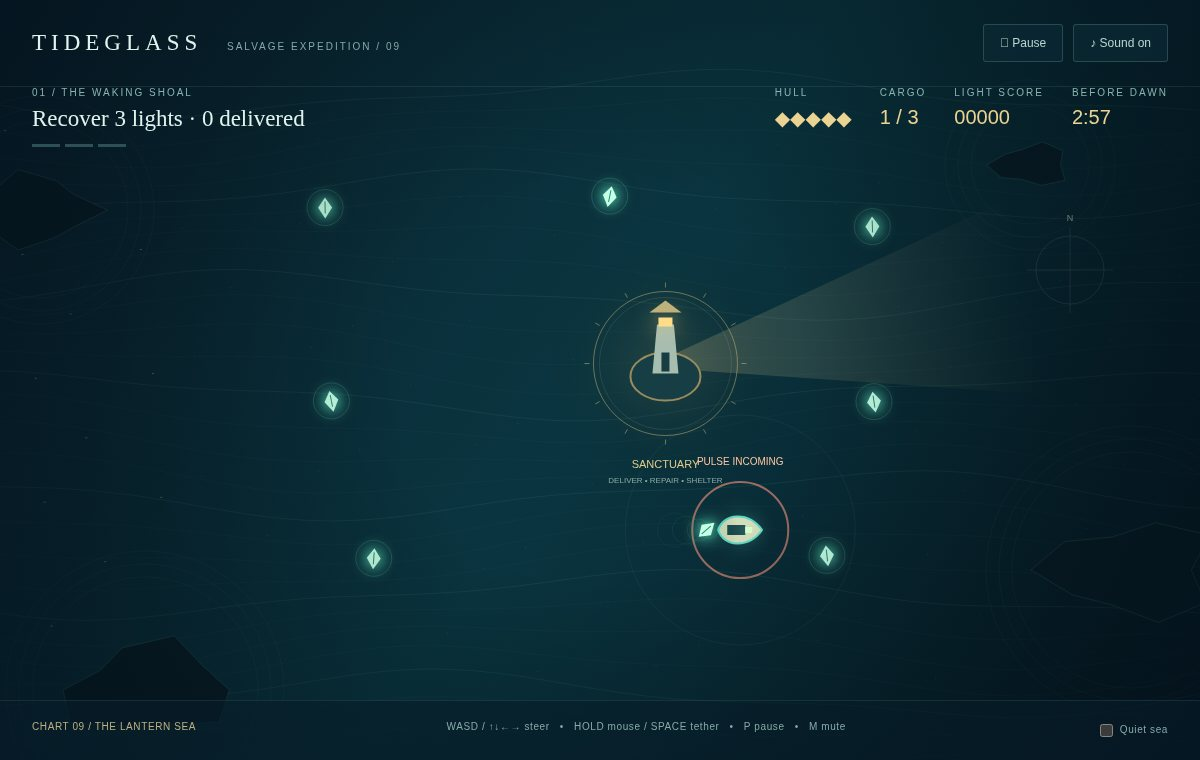
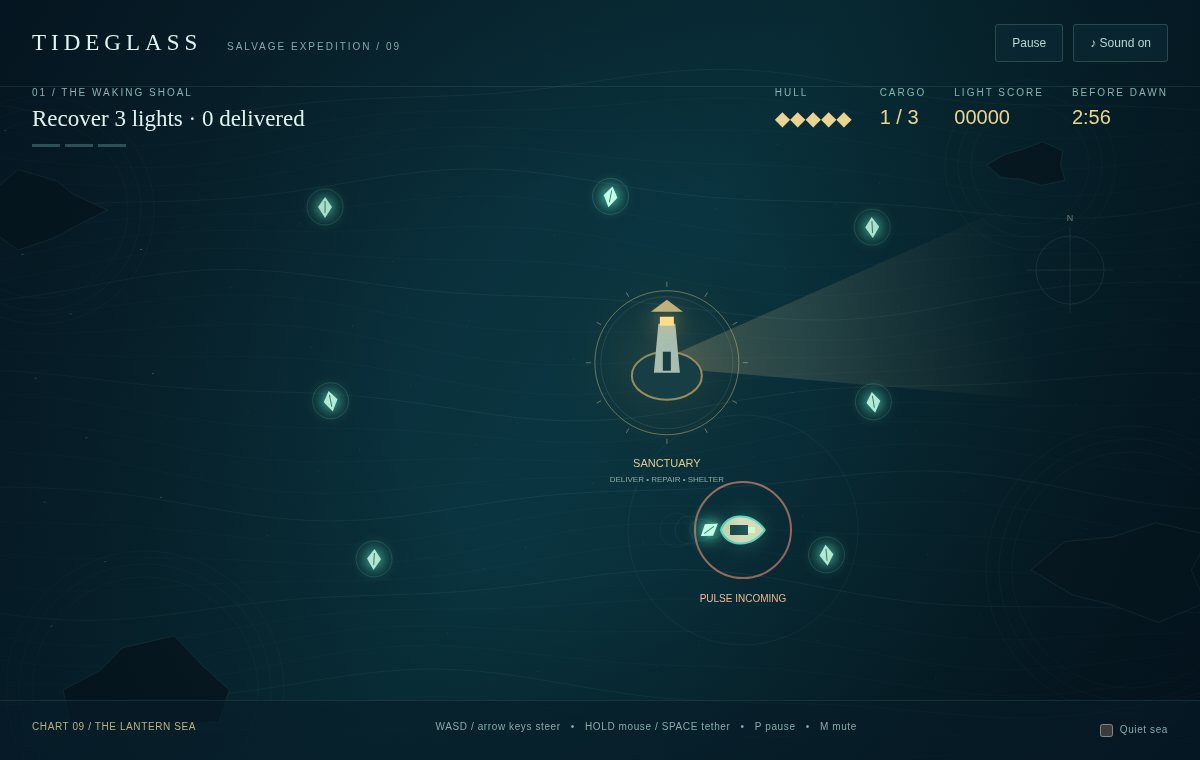
Fix warning overlap and refresh validated game captures

diff --git a/game/index.html b/game/index.html
@@ -3,9 +3,9 @@
 <body>
 <main id="app">
 <canvas id="ocean" aria-label="Tideglass ocean. Steer with WASD or arrows. Hold Space to tether nearby relics, or aim and hold the mouse." tabindex="0"></canvas>
-<header><div class="wordmark">TIDEGLASS<span> SALVAGE EXPEDITION / 09</span></div><nav><button id="pause" aria-label="Pause game">Ⅱ Pause</button><button id="mute" aria-pressed="false">♪ Sound on</button></nav></header>
+<header><div class="wordmark">TIDEGLASS<span> SALVAGE EXPEDITION / 09</span></div><nav><button id="pause" aria-label="Pause game">Pause</button><button id="mute" aria-pressed="false">♪ Sound on</button></nav></header>
 <section id="hud" hidden aria-label="Expedition status"><div><small id="stage-label">01 / THE WAKING SHOAL</small><strong id="objective"></strong><div id="progress"></div></div><div class="metrics"><span><small>HULL</small><b id="hull"></b></span><span><small>CARGO</small><b id="cargo"></b></span><span><small>LIGHT SCORE</small><b id="score"></b></span><span><small>BEFORE DAWN</small><b id="clock"></b></span></div></section>
 <div id="notice" role="status" aria-live="polite"></div>
 <section id="panel" aria-label="Game menu"><div class="eyebrow" id="eyebrow">A LITTLE VESSEL. A VAST, RESTLESS SEA.</div><h1 id="title">TIDEGLASS</h1><p id="subtitle">Somewhere beneath the storm,<br>the old stars are still burning.</p><div id="summary"></div><div id="tutorial"><div><b>01 <span>STEER</span></b><p>WASD or arrow keys<br>Sail between the storm rings.</p></div><div><b>02 <span>SALVAGE</span></b><p>Aim + hold mouse to tow<br>Or hold Space for nearest relic.</p></div><div><b>03 <span>RETURN</span></b><p>Bring light to the lighthouse<br>Carry 3 for a bigger bonus.</p></div></div><button id="primary">Launch expedition <span>↗</span></button><p class="hint" id="menu-hint">ENTER TO LAUNCH · THREE STAGES · ONE LIGHT TO KEEP</p></section>
-<footer><span id="foot-left">CHART 09 / THE LANTERN SEA</span><span>WASD / ↑↓←→ steer &nbsp; • &nbsp; HOLD mouse / SPACE tether &nbsp; • &nbsp; P pause &nbsp; • &nbsp; M mute</span><label><input id="motion" type="checkbox"> Quiet sea</label></footer>
+<footer><span id="foot-left">CHART 09 / THE LANTERN SEA</span><span>WASD / arrow keys steer &nbsp; • &nbsp; HOLD mouse / SPACE tether &nbsp; • &nbsp; P pause &nbsp; • &nbsp; M mute</span><label><input id="motion" type="checkbox"> Quiet sea</label></footer>
 </main><script type="module" src="./src/main.js"></script></body></html>

diff --git a/game/src/render.js b/game/src/render.js
@@ -66,7 +66,7 @@ export function createRenderer(canvas) {
     c.save();c.translate(1070,270);circle(0,0,34,'#9eb9a12b');line([[-43,0],[43,0]],'#9eb9a12b');line([[0,-43],[0,43]],'#9eb9a12b');label('N',0,-49,'#a1b4a1',9);c.restore();
     lighthouse(s,t);
     for(const pulse of s.pulses){
-      if(pulse.age<0){circle(pulse.x,pulse.y,48,'#f2917ba0',2);circle(pulse.x,pulse.y,48*(-pulse.age/1.6),'#f1b58b60');label('PULSE INCOMING',pulse.x,pulse.y-65,'#ffc4a0',10);}
+      if(pulse.age<0){circle(pulse.x,pulse.y,48,'#f2917ba0',2);circle(pulse.x,pulse.y,48*(-pulse.age/1.6),'#f1b58b60');label('PULSE INCOMING',pulse.x,Math.min(HEIGHT-95,pulse.y+72),'#ffc4a0',10);}
       else{circle(pulse.x,pulse.y,pulse.radius,'#ee987a90',4);circle(pulse.x,pulse.y,pulse.radius+9,'#d79b7a25',7);}
     }
     for(const r of s.relics) { circle(r.x,r.y,18,'#70dec336');relic(r.x,r.y,quiet?0:Math.sin(t+r.phase)*.2); }

diff --git a/game/src/ui.js b/game/src/ui.js
@@ -6,7 +6,7 @@ export function createUI(action) {
   function update(s) {
     const playing=s.mode==='play';$('hud').hidden=s.mode==='title';$('panel').hidden=playing;
     $('pause').hidden=['title','won','lost'].includes(s.mode);
-    $('pause').textContent=s.mode==='paused'?'▶ Resume':'Ⅱ Pause';
+    $('pause').textContent=s.mode==='paused'?'Resume':'Pause';
     const notice=playing && s.noticeTime>0?s.notice:'';
     if($('notice').textContent!==notice) $('notice').textContent=notice;
     $('stage-label').textContent=`0${Math.min(3,s.stage+1)} / ${STAGES[Math.min(2,s.stage)].toUpperCase()}`;

diff --git a/VALIDATION.md b/VALIDATION.md
@@ -7,12 +7,16 @@
 - Parent's `/workspace/makefun-tools/check-game-rules.mjs`: passes transitions, bounds, collection, delivery/win, timeout/loss, restart and deterministic 3600-step replay against the revised rules.
 - Syntax checks passed for root main.ts, all six browser JS modules, and both external validation scripts.
 - Official `vendor/makefun-game.ts` matches the starter exactly (`cmp` and byte-array assertion).
-- Three genuine parent browser JPEG captures visually inspected: title, real collected cargo with storm warning, and storm defeat at 38 seconds with one delivery and restart. Sizes: 65,607 / 53,378 / 69,250 bytes; each 1200×760.
+- Three genuine parent browser JPEG captures visually inspected: title, real collected cargo with storm warning, and storm defeat at 38 seconds with one delivery and restart. Sizes: 65,896 / 53,674 / 69,567 bytes; each 1200×760.
 - `MAKEFUN_OUTPUT_DIR=/tmp/tideglass-final-output node main.ts` succeeded: 276,263-byte dossier.
 - `node /tmp/tideglass-package-check.mjs` passed: screenshot dimensions/byte caps, library equality, unchanged screenshot copies, every output byte equal across two actual main.ts runs, and exact dossier equality against the official kit library. Retained outputs: `/tmp/tideglass-verify-tG7YwU`.
 
 # Limits
 
-Node checks ran on 24.22.1; source uses Node 22.18-compatible erasable TypeScript and standard library APIs, but native Node 22 was not executed here. The nested sandbox denies HTTP listening (`EPERM`) and Chromium sockets (`SIGTRAP`); browser captures were produced by the parent outside it. The images demonstrate actual play and defeat, but this session has not received the parent's full browser-assertion output. Audible sound quality and a human difficulty assessment remain unmeasured. Browser automation/capture and package-verification scripts are outside the repo at `/tmp/tideglass-browser-check.mjs` and `/tmp/tideglass-package-check.mjs`.
+Node checks ran on 24.22.1; source uses Node 22.18-compatible erasable TypeScript and standard library APIs, but the parent subsequently passed all nine checks on native Node 22.23.4. The nested sandbox denies HTTP listening (`EPERM`) and Chromium sockets (`SIGTRAP`); browser captures were produced by the parent outside it. The images demonstrate actual play and defeat, but this session has not received the parent's full browser-assertion output. Audible sound quality and a human difficulty assessment remain unmeasured. Browser automation/capture and package-verification scripts are outside the repo at `/tmp/tideglass-browser-check.mjs` and `/tmp/tideglass-package-check.mjs`.
 
 No credentials or session logs were accessed or changed. No agents, worktrees, paid APIs, financial actions, commits, pushes or submissions were used.
+
+## Final parent browser review
+
+The complete parent browser test passed start, real mouse salvage, movement, pause/resume, mute, actual loss/results, restart, quiet sea, absence of page errors and absence of external requests. Preview review found an overlapping warning label and unsupported button glyphs; these were corrected and final screenshots were regenerated from actual play and the full browser assertions passed again. All nine checks passed on native Node 22.23.4.

diff --git a/README.md b/README.md
@@ -22,6 +22,6 @@ MAKEFUN_OUTPUT_DIR=/tmp/tideglass-output node main.ts
 
 The output folder must not overlap this checkout. Packaging copies the actual game and screenshots and writes the official dossier using the unchanged kit library. Images must be PNG/JPEG, ≤256 KiB each, long side ≤1280 and short side ≥480; alphabetical first is the cover. No screenshot fixtures or staged game states are provided.
 
-Parent browser validation/capture script: `/tmp/tideglass-browser-check.mjs` (outside the repository). With this server running, execute `node /tmp/tideglass-browser-check.mjs`; it uses installed Playwright and `/usr/bin/chromium`, real mouse/keyboard interactions and clock advancement to capture title, play and actual defeat results. Then run `node /tmp/tideglass-package-check.mjs` for output and dossier repeatability. Three genuine parent browser captures are present (title, cargo/storm gameplay, and storm defeat with restart). Each is 1200×760 and below 256 KiB. Two actual packaging runs matched byte for byte, copied screenshots were unchanged, and the dossier equaled a rebuild using the official kit library. Nine Node checks passed on Node 24.22.1, plus the parent’s 3600-step replay check. Local HTTP and Chromium launch are denied in the nested sandbox; full browser assertions must be reported from the parent’s run. Native Node 22 execution and audible sound quality have not been measured here.
+Parent browser validation/capture script: `/tmp/tideglass-browser-check.mjs` (outside the repository). With this server running, execute `node /tmp/tideglass-browser-check.mjs`; it uses installed Playwright and `/usr/bin/chromium`, real mouse/keyboard interactions and clock advancement to capture title, play and actual defeat results. Then run `node /tmp/tideglass-package-check.mjs` for output and dossier repeatability. Three genuine parent browser captures are present (title, cargo/storm gameplay, and storm defeat with restart). Each is 1200×760 and below 256 KiB. Two actual packaging runs matched byte for byte, copied screenshots were unchanged, and the dossier equaled a rebuild using the official kit library. Nine Node checks passed on Node 24.22.1, plus the parent’s 3600-step replay check. Local HTTP and Chromium launch are denied in the nested sandbox; the parent’s full browser assertions passed after final UI fixes. All nine tests also passed on native Node 22.23.4. Audible sound quality remains unmeasured.
 
 Source modules separate fixed-step simulation, input, rendering, UI and audio. MIT licensed. Repository: [vantam3/make-fun](https://github.com/vantam3/make-fun). No rank or reward is claimed.
